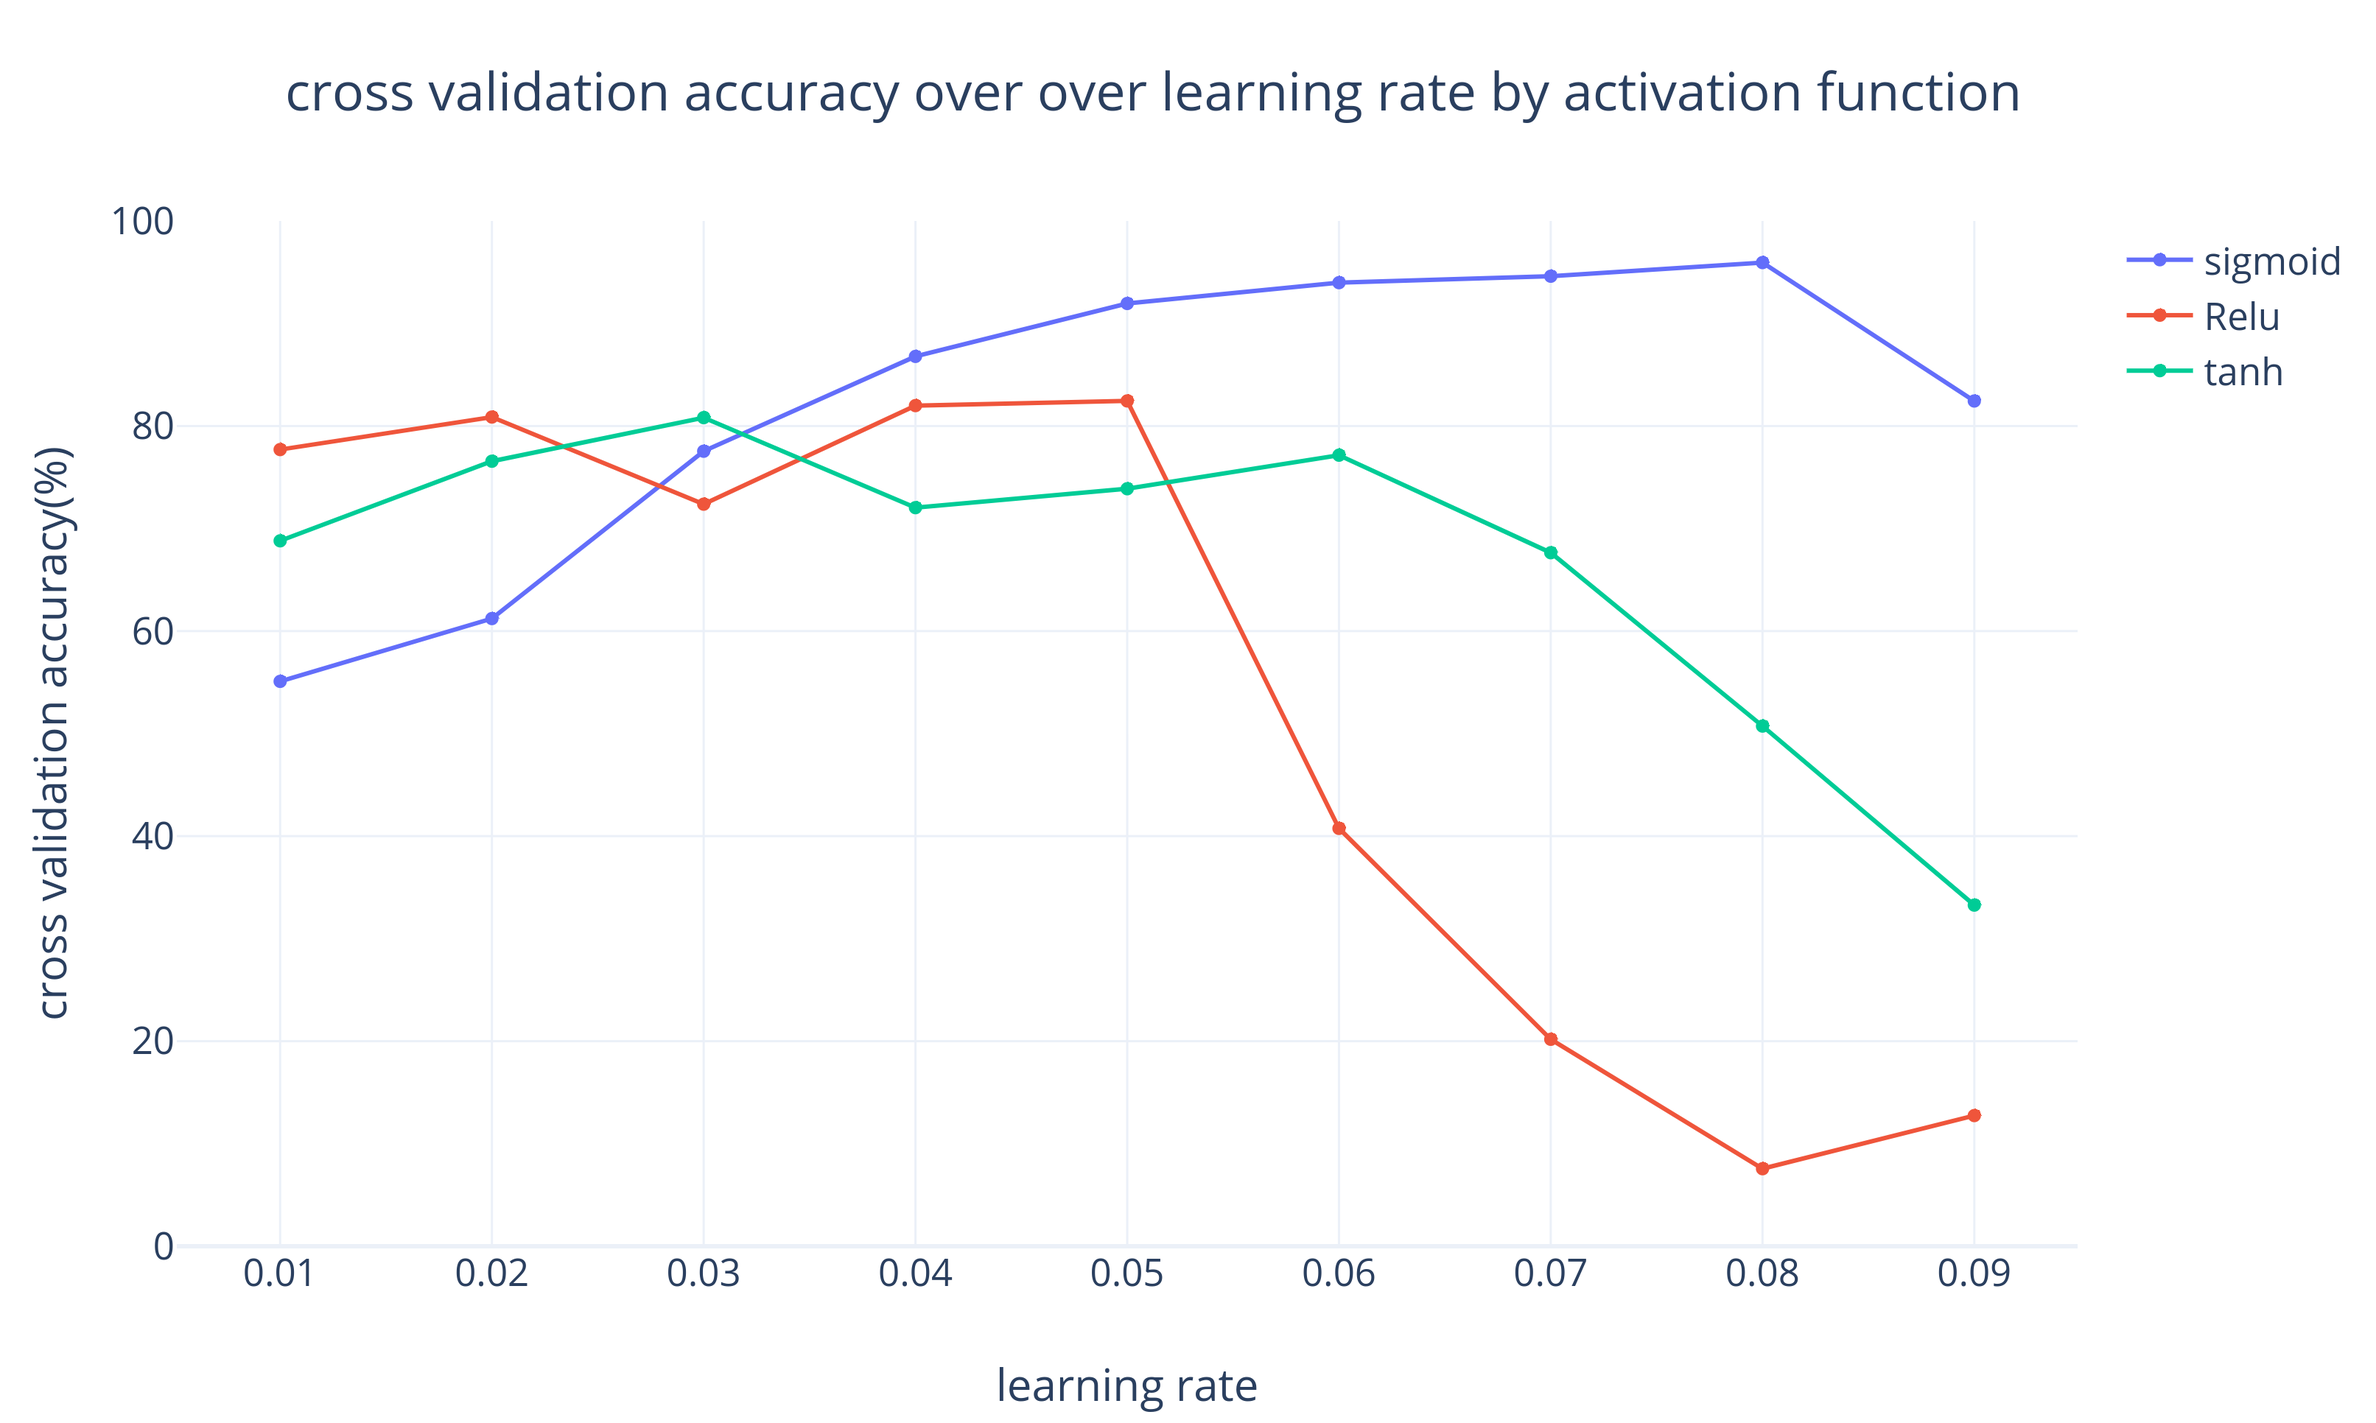
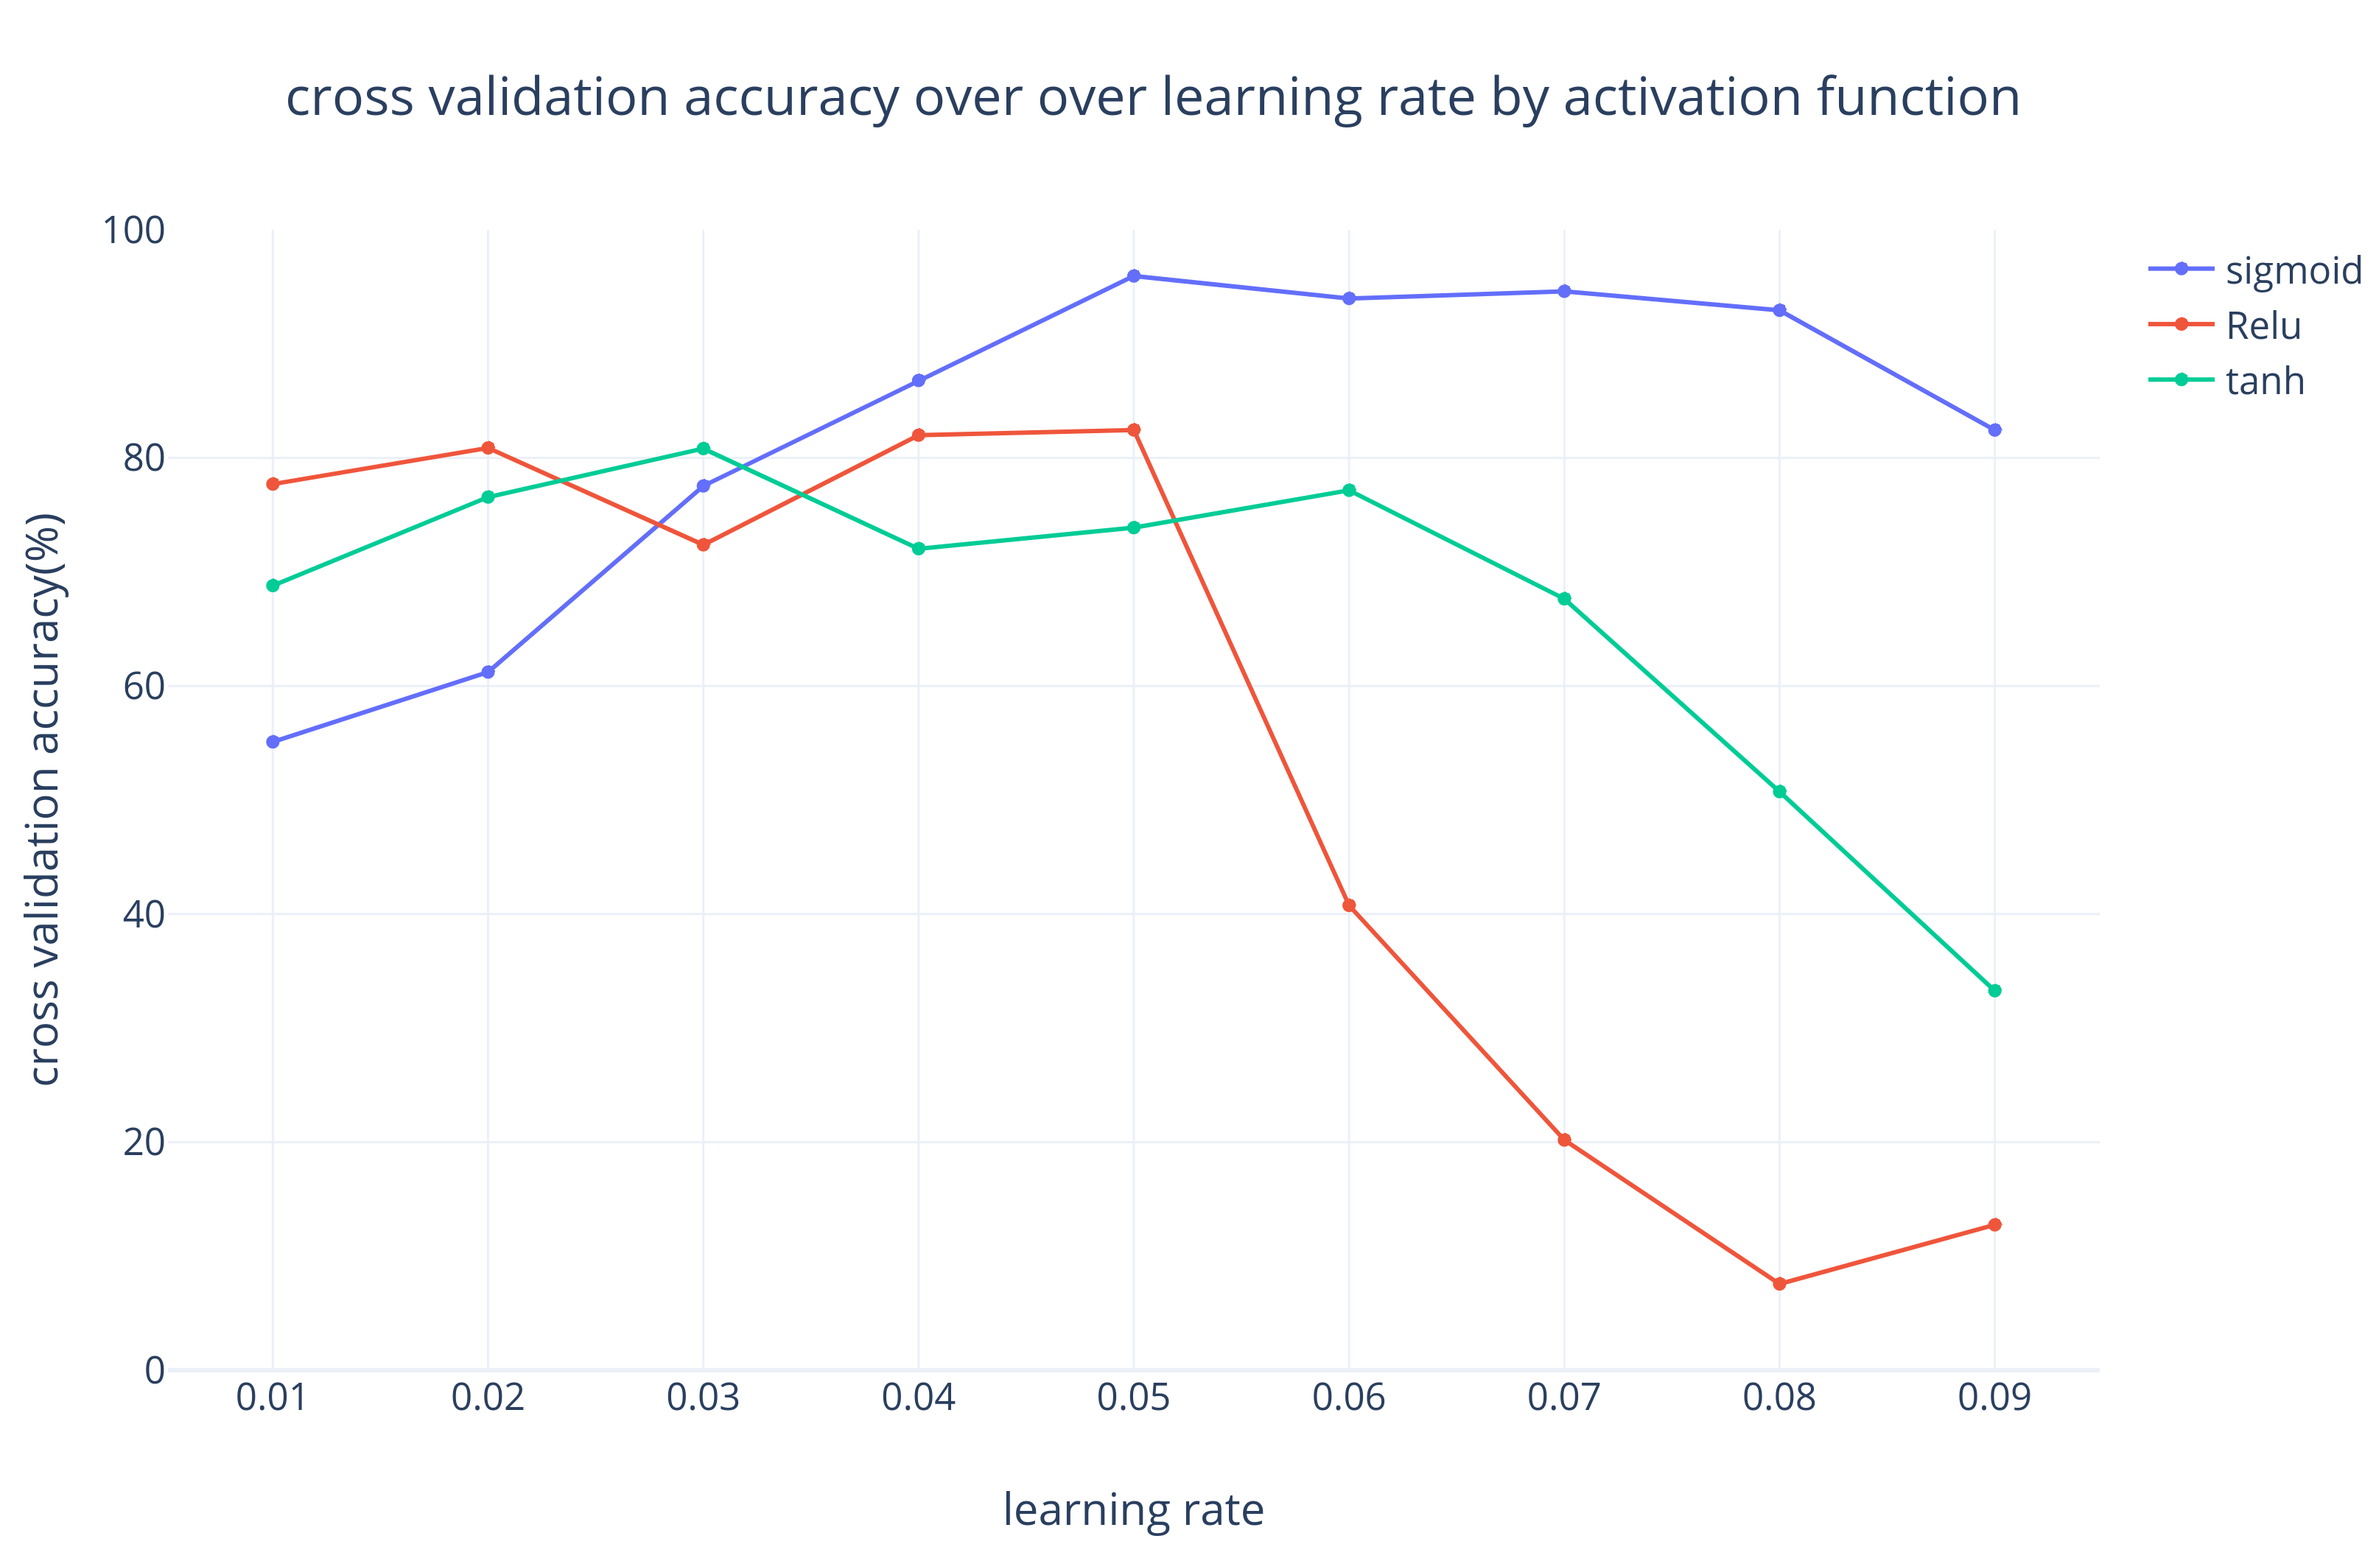
learning rate again updated to 0.05

diff --git a/KECReport.tex b/KECReport.tex
@@ -758,10 +758,10 @@ There is no universal learning rate value which will work for all types of proje
 
 
 
-For this we trained our neural Network with stochastic gradient descent for different value of learning rate and Activation function such as sigmoid, relu, tanh. We used cross validation test method to determine the performance of model on different parameters and  we conclude that sigmoid activation function and learning rate=0.08 is optimal for our neural Network model as we got around 95\%  accuracy while increasing or decreasing learning rate values reduce the accuracy of model.
+For this we trained our neural Network with stochastic gradient descent for different value of learning rate and Activation function such as sigmoid, relu, tanh. We used cross validation test method to determine the performance of model on different parameters and  we conclude that sigmoid activation function and learning rate=0.05 is optimal for our neural Network model as we got around 95\%  accuracy while increasing or decreasing learning rate values reduce the accuracy of model.
 
 
-\includegraphics[width=170mm,height=100mm]{comparison/activation.png}
+\includegraphics[width=170mm,height=110mm]{comparison/activation.png}
  \caption{Selection of optimal Number of Hidden Layer}
  \end{center}                
 \end{figure}
